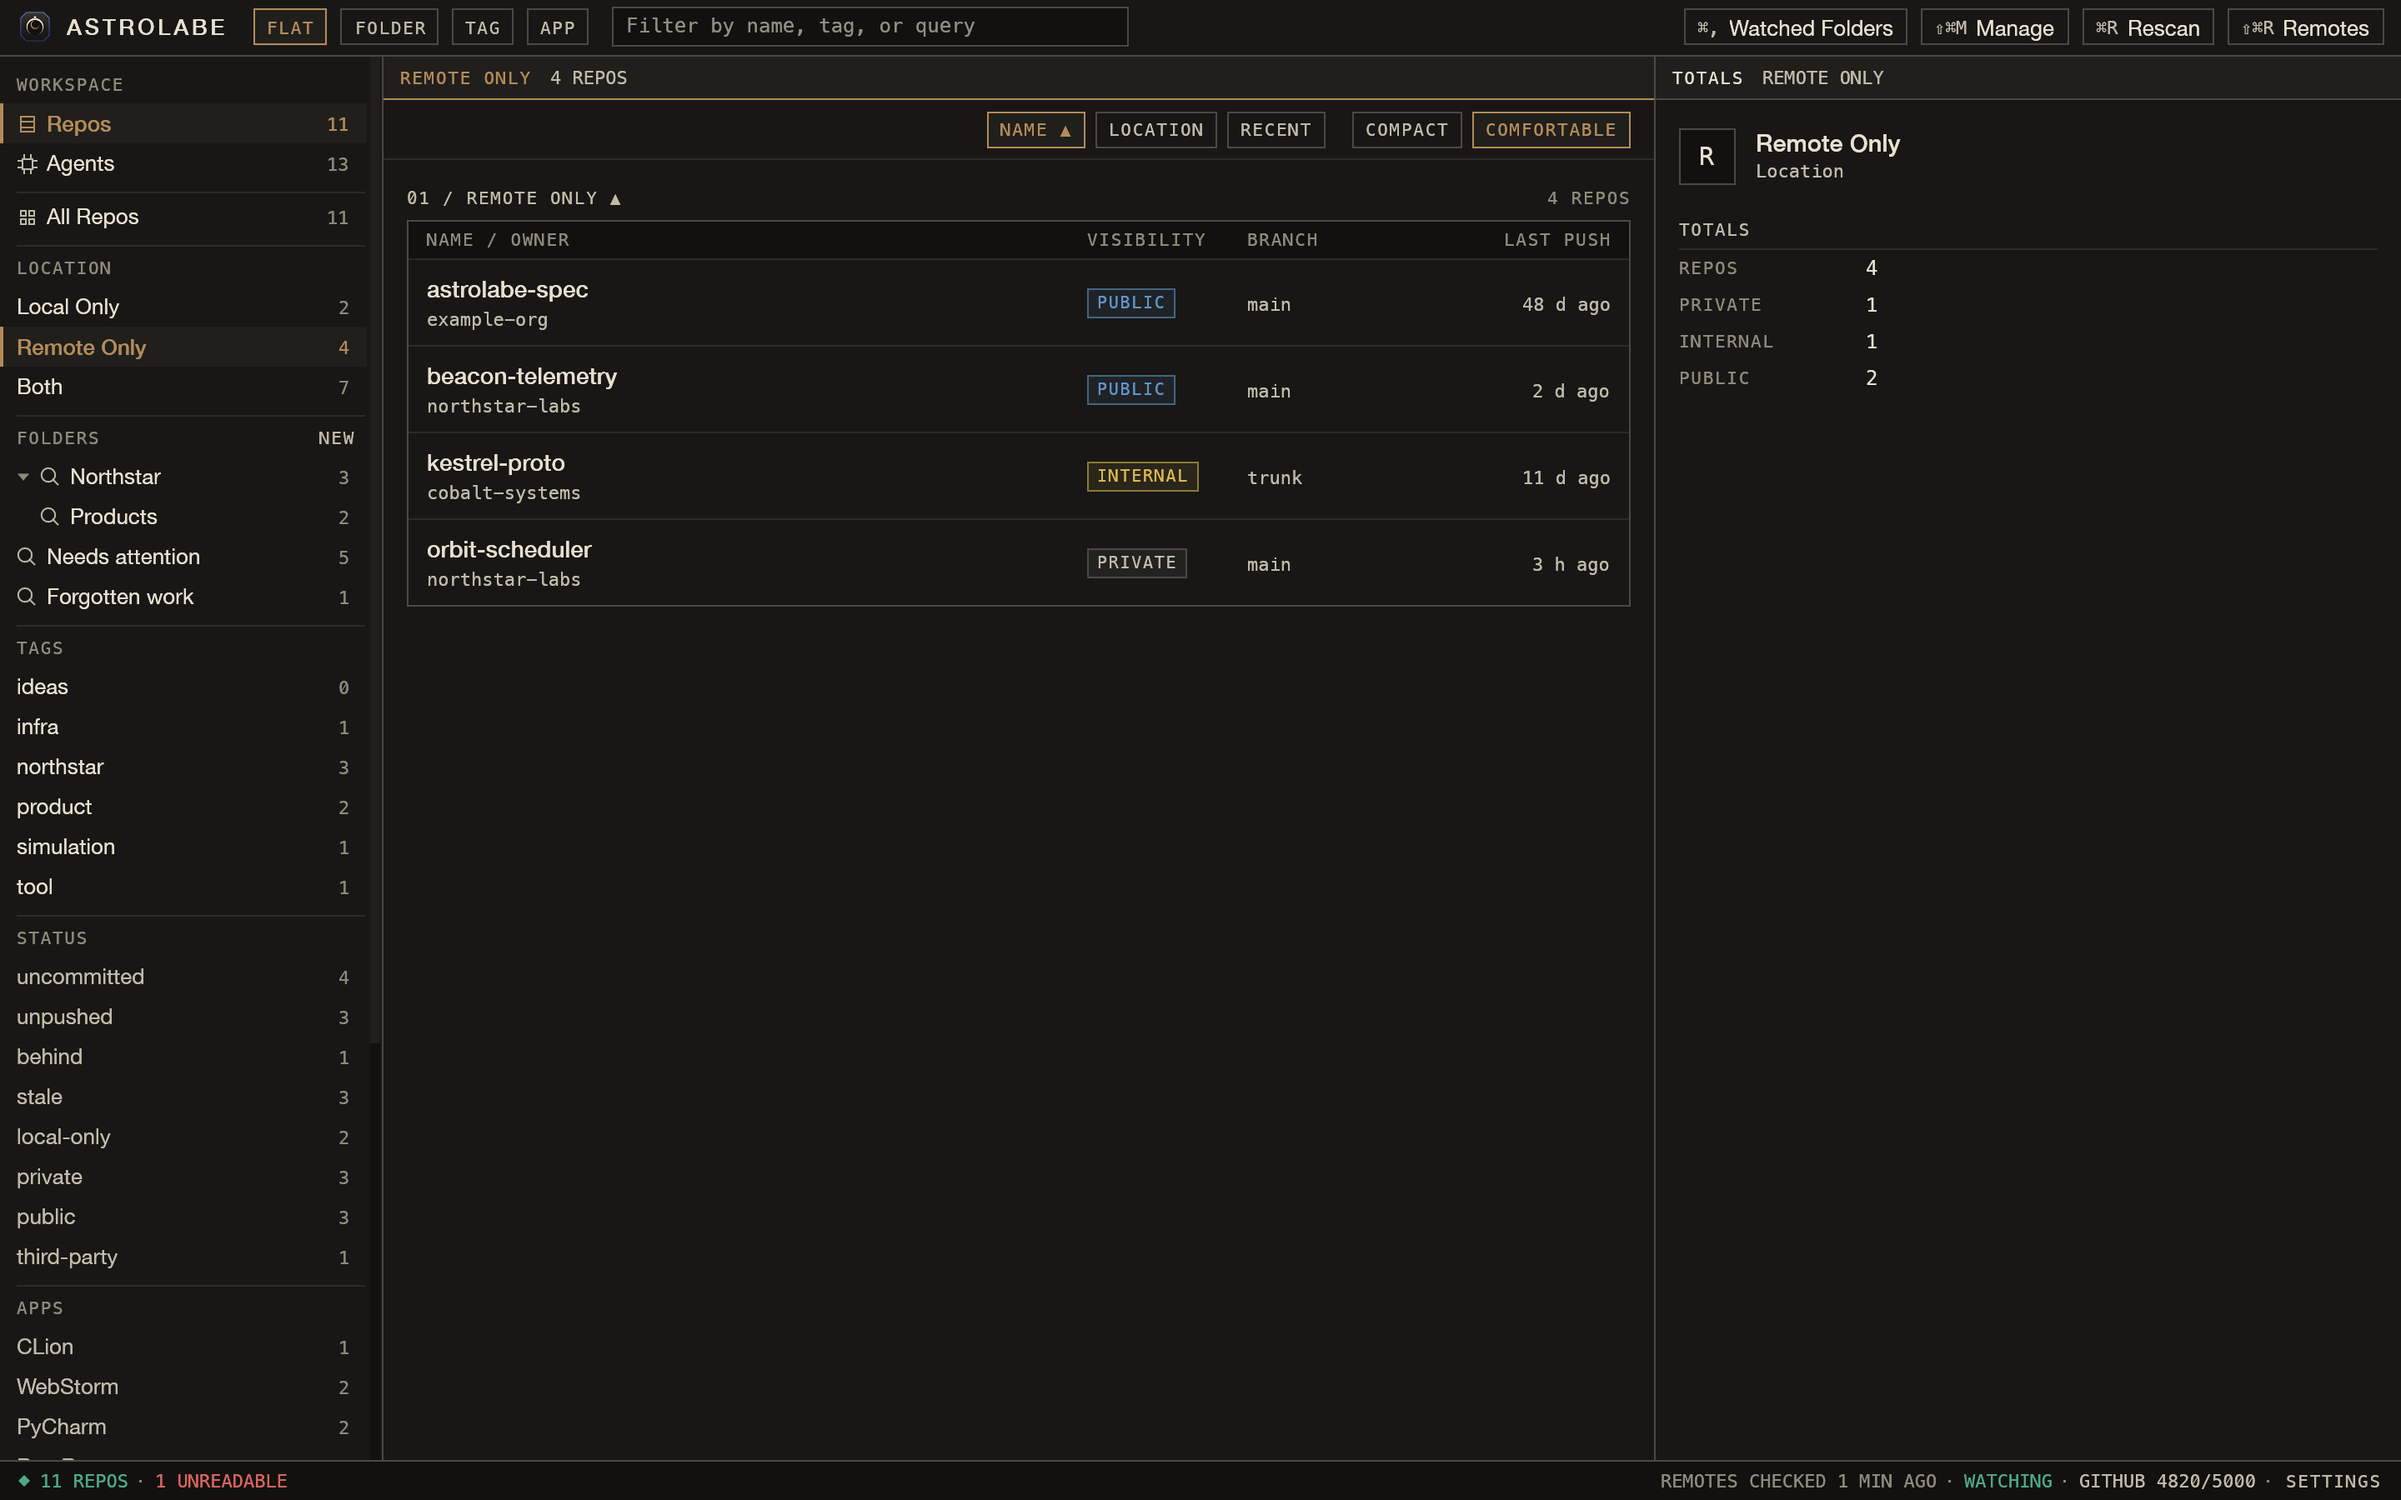
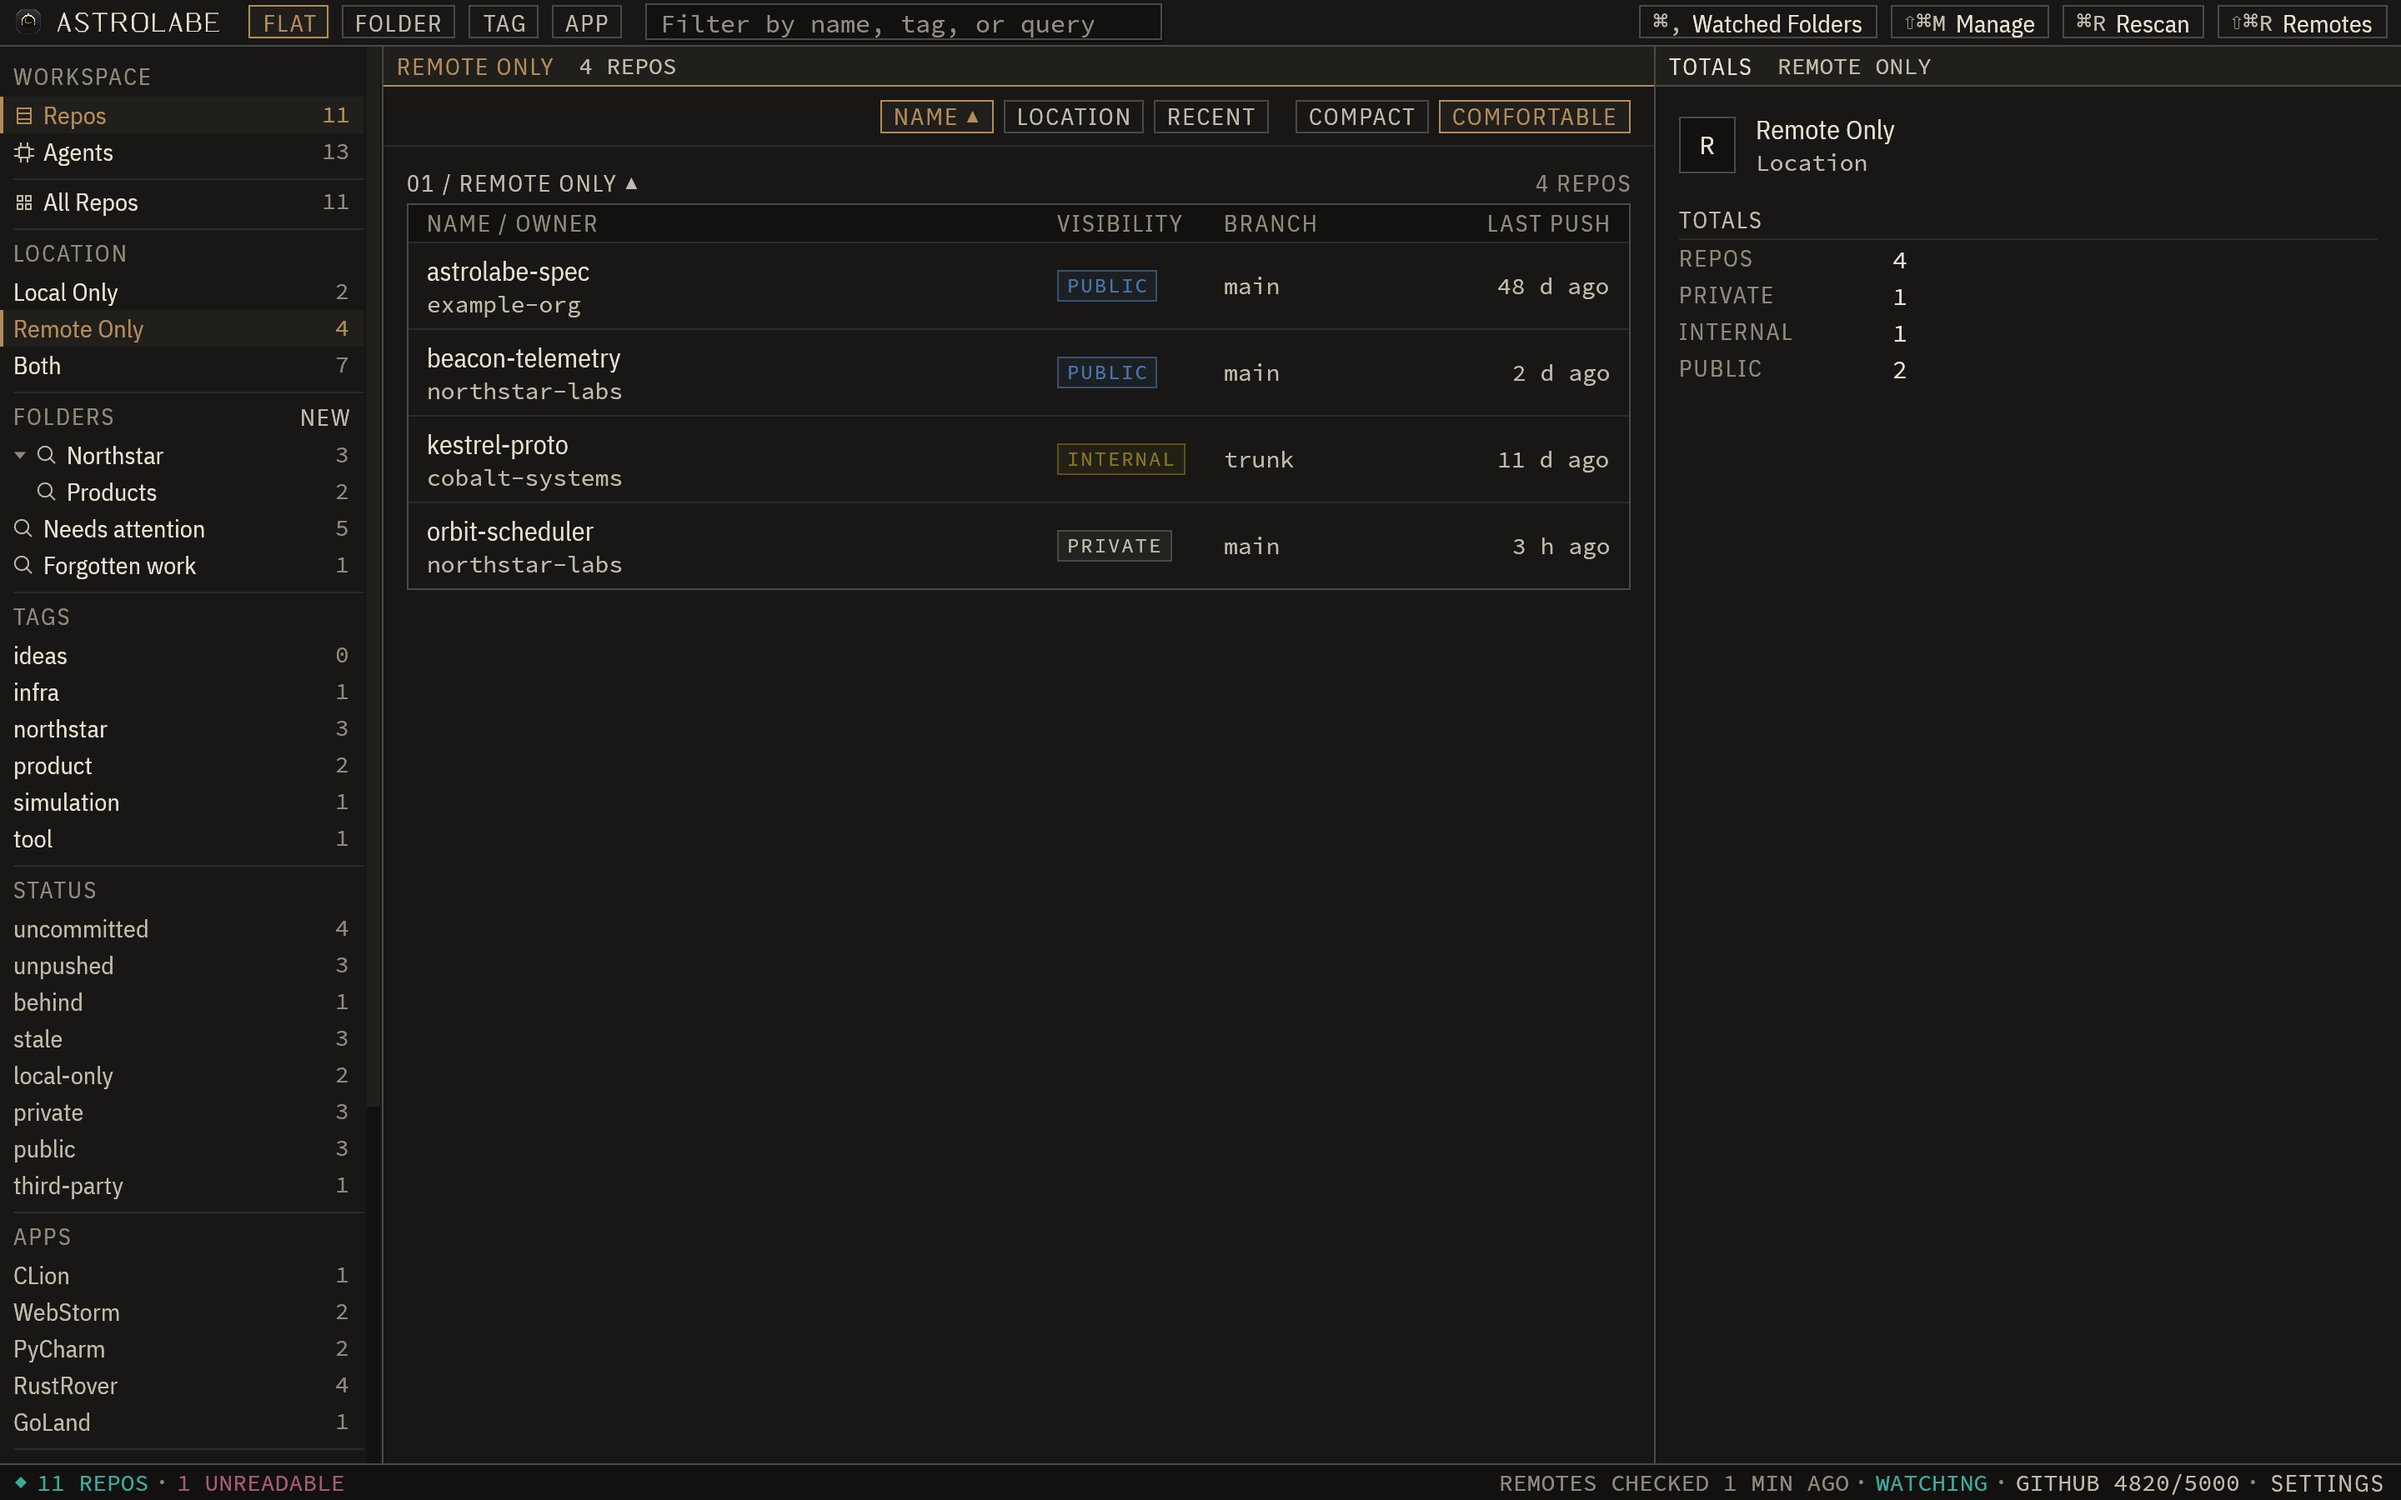
Update documentation and screenshots for sternbild-tokens migration

diff --git a/docs/interface/ui-principles.md b/docs/interface/ui-principles.md
@@ -18,18 +18,18 @@ Layout hierarchy inside one Astrolabe desktop window.
 
 ## Tokens
 
-Astrolabe uses a warm mineral dark palette with square corners, 1 px structural rules, and zero drop shadows. `SternbildDisplay` is reserved only for the name `Astrolabe`. Headings, controls, and body copy use `IBM Plex Sans Condensed`, and paths, metrics, and code use `Source Code Pro`.
+Astrolabe uses a warm mineral dark palette with square corners, 1 px structural rules, and zero drop shadows. `Sternbild Display` is reserved only for the name `Astrolabe`. Headings, controls, and body copy use `IBM Plex Sans Condensed`, and paths, metrics, and code use `Source Code Pro`.
 
 | Token Group | Role | Specification |
 |---|---|---|
-| Wordmark `Astrolabe` | Brand name only | `SternbildDisplay`, never used for headings or controls |
+| Wordmark `Astrolabe` | Brand name only | `Sternbild Display`, never used for headings or controls |
 | UI Typography | Headings, controls, body copy | `IBM Plex Sans Condensed` |
 | Monospace Typography | Paths, metrics, identifiers, code | `Source Code Pro` with tabular figures |
 | Mineral Surfaces | Recessed, ground, plate, hover | `#12110f`, `#181715`, `#201f1c`, `#2a2925` |
 | Structural Rules | Dividers and control borders | 1 px `#4b4945` (`RULE`) and `#2c2b28` (`RULE_FAINT`) |
 | Neutral Ink | Primary, secondary, faint text | `#e8e0d0`, `#c1baaa`, `#8f897c` |
 | Focus Accent | Keyboard focus and active selection | Bronze `#b38b59`, never used for data status |
-| Status Pigments | `OK`, `INFO`, `WARN`, `ERROR`, `Neutral` | `#4ca986`, `#6195cc`, `#d9b84e`, `#d8645e`, `#c1baaa` |
+| Status Pigments | `OK`, `INFO`, `WARN`, `ERROR`, `Neutral` | `#3ca99c`, `#4677ad`, `#867424`, `#a35a74`, `#c1baaa` |
 
 ## Components
 
@@ -60,7 +60,7 @@ Explanation lives in one on-demand location such as a guided tour or an info con
 
 The primary subject occupies the largest area of the window, while controls and secondary inspectors sit beside it. Panes claim proportional shares of the available space rather than fixed pixel widths. Each pane declares a minimum size that scales with the text scale setting and carries no upper limit. Thus a larger monitor gives every pane more room.
 
-Different questions belong in separate panels or views rather than extra panes crowded into one screen. Dedicated edge strips hold the top `CommandBar` (`34 px`) and bottom `StatusBar` (`24 px`), and panes fill the open workspace. No status banner obscures a pane unless the user opens a transient modal overlay.
+Different questions belong in separate panels or views rather than extra panes crowded into one screen. Dedicated edge strips hold the top `CommandBar` (`28 px`) and bottom `StatusBar` (`22 px`), and panes fill the open workspace. No status banner obscures a pane unless the user opens a transient modal overlay.
 
 ## Behavior
 

diff --git a/docs/development/development-basics.md b/docs/development/development-basics.md
@@ -79,7 +79,7 @@ The suite verifies Git and query logic, provider parsers, Keychain caching, layo
 
 The script builds the release `astrolabe` binary and forwards extra CLI arguments directly to `cargo build`. It writes `${CARGO_TARGET_DIR:-target}/bundle/Astrolabe.app` (`target/bundle/Astrolabe.app` by default) with a validated `Info.plist` for macOS 13.0 or newer.
 
-The script also generates `AppIcon.icns` from `site/assets/astrolabe-icon-minerals.svg` through `resvg`, `rsvg-convert`, or `sips` with `iconutil`. Then `codesign` applies and verifies an ad-hoc signature on the bundle.
+The script calls `astrolabe --write-bundle-icon` to extract the canonical 1024 px Minerals PNG from `sternbild-tokens`, then builds `AppIcon.icns` with `sips` and `iconutil`. Then `codesign` applies and verifies an ad-hoc signature on the bundle.
 
 ### Roadmap Check
 
@@ -137,7 +137,7 @@ All workspace builds and tests pass, and `./scripts/bundle.sh` writes a verified
 
 | Symptom | Cause | Remedy |
 |---|---|---|
-| Bundle script fails on icon | Icon SVG absent from `site/assets/` | Restore `site/assets/astrolabe-icon-minerals.svg` and rerun `./scripts/bundle.sh` |
+| Bundle script fails on icon | Binary failed to emit the embedded PNG or `iconutil` failed | Verify `cargo build --release -p astrolabe` succeeds and rerun `./scripts/bundle.sh` |
 | Roadmap check exits 1 | Invalid YAML, broken link, or absent pillar entry | Fix the reported `roadmap/*.yml` or `docs/roadmap/.nav.yml` entry and repeat `sternbild-docs check-roadmap` |
 | Heading check exits 1 | Heading breaks Title Case or article rules | Rewrite the heading as a Title Case noun phrase without articles |
 | Strict build warns on anchor | Internal link targets an absent heading | Fix the target anchor or page path in Markdown |

diff --git a/docs/interface/index.md b/docs/interface/index.md
@@ -19,7 +19,7 @@ Design tokens and layout rules flow through `astrolabe-kit` into every Astrolabe
 
 The interface uses a warm mineral dark palette with square corners, 1 px structural rules, and zero drop shadows. Bronze (`#b38b59`) marks only keyboard focus and active selection, distinct from every data status color.
 
-Typography follows three strict roles across the application and documentation. `SternbildDisplay` is reserved only for the name `Astrolabe`. Headings, controls, and body copy use `IBM Plex Sans Condensed`, and paths, metrics, and code use `Source Code Pro`.
+Typography follows three strict roles across the application and documentation. `Sternbild Display` is reserved only for the name `Astrolabe`. Headings, controls, and body copy use `IBM Plex Sans Condensed`, and paths, metrics, and code use `Source Code Pro`.
 
 ## Interface Kit
 
